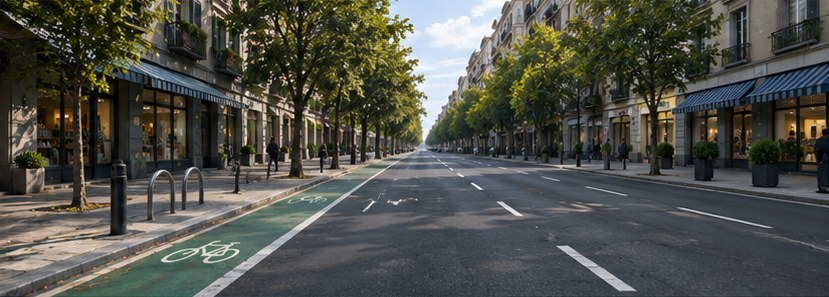
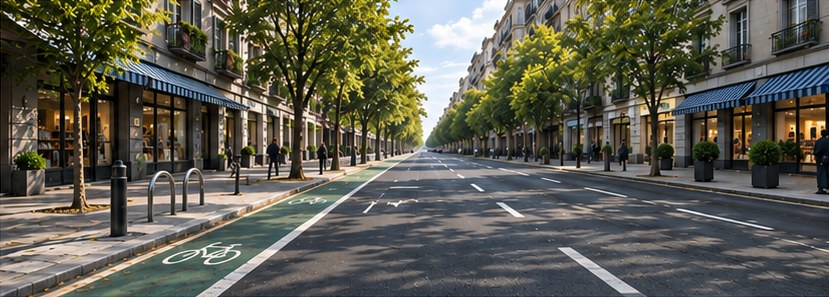
Mark 2: new camera images — approaching cyclist for the Nav blind-spot alert, the rest for the camera grid
Claude-Session: https://claude.ai/code/session_01P73dnHvCVQTA44iCgN1u2F

diff --git a/nio/mark2/prototype.html b/nio/mark2/prototype.html
@@ -4,10 +4,10 @@
 <link rel="preconnect" href="https://fonts.googleapis.com"><link rel="preconnect" href="https://fonts.gstatic.com" crossorigin>
 <link href="https://fonts.googleapis.com/css2?family=Red+Hat+Display:wght@400;500;700&family=Red+Hat+Text:wght@400;500;600;700&display=swap" rel="stylesheet">
 <link href="https://fonts.googleapis.com/css2?family=Material+Symbols+Rounded:opsz,wght,FILL,GRAD@20..48,300..500,0..1,0&display=block" rel="stylesheet">
-<link rel="stylesheet" href="hifi.css?v=140">
-<link rel="stylesheet" href="hifi-dark.css?v=140"><script src="i18n.js?v=140"></script>
+<link rel="stylesheet" href="hifi.css?v=141">
+<link rel="stylesheet" href="hifi-dark.css?v=141"><script src="i18n.js?v=141"></script>
 <script type="importmap">{"imports":{"three":"./vendor/three/build/three.module.min.js","three/addons/":"./vendor/three/addons/"}}</script>
-<link rel="modulepreload" href="vendor/three/build/three.module.min.js"><link rel="modulepreload" href="et9-3d.js?v=140"><link rel="modulepreload" href="vendor/three/addons/loaders/GLTFLoader.js">
+<link rel="modulepreload" href="vendor/three/build/three.module.min.js"><link rel="modulepreload" href="et9-3d.js?v=141"><link rel="modulepreload" href="vendor/three/addons/loaders/GLTFLoader.js">
 <link rel="preload" href="model/et9.glb" as="fetch" crossorigin="anonymous"><link rel="preload" href="model/paint.bin" as="fetch" crossorigin="anonymous">
 <script>(function(){var d=document.documentElement,q=new URLSearchParams(location.search),t='auto';try{t=localStorage.getItem('nio-theme')||'auto'}catch(e){}t=q.get('theme')||t;
 var dk=t==='dark'||(t==='auto'&&window.matchMedia&&matchMedia('(prefers-color-scheme: dark)').matches);d.dataset.pref=t;d.dataset.theme=dk?'dark':'light';d.dataset.night=q.get('night')||'plum';})();</script>
@@ -455,7 +455,7 @@ var dk=t==='dark'||(t==='auto'&&window.matchMedia&&matchMedia('(prefers-color-sc
 </div></section></div>
     <div class="ctx"><div class="card bscam" style="display:flex;flex-direction:column;gap:14px;border-style:solid;border-color:#d94a4a">
         <div class="row" style="justify-content:space-between"><div class="row" style="gap:10px"><span class="ms f" style="color:var(--t1);font-size:24px">videocam</span><span class="lbl" style="color:var(--t1)">Right blind spot</span></div><span class="row" style="gap:6px;font:500 13px 'Red Hat Text';color:#d94a4a"><i style="width:8px;height:8px;border-radius:50%;background:#d94a4a;display:block"></i>LIVE</span></div>
-        <div class="camv" style="flex:1;position:relative;overflow:hidden;background-image:url(img/camera/blindspot-right.jpg?v=140)">
+        <div class="camv" style="flex:1;position:relative;overflow:hidden;background-image:url(img/camera/blindspot-right.jpg?v=141)">
           <div class="warnbar" style="position:absolute;left:14px;right:14px;bottom:14px"><span class="ms f" style="">pedal_bike</span>Cyclist approaching · wait</div></div>
       </div><div class="card player playing grow">
       <div class="p-full">
@@ -519,7 +519,7 @@ var dk=t==='dark'||(t==='auto'&&window.matchMedia&&matchMedia('(prefers-color-sc
     <span class="ms wc-i" style="font-size:48px;color:var(--t1)">cloud</span><div class="col" style="gap:0;flex:1"><span class="b2" style="color:var(--t1)">Paris</span><span class="bs wc-t">loading…</span></div>
     <div class="col" style="gap:0;align-items:flex-end"><span class="num wc-c" style="font:400 36px/1 Red Hat Display">–</span><span class="bs num wc-h">H – · L –</span></div></div><div class="card scard wcity" data-lat="28.6139" data-lon="77.209" data-tz="Asia/Kolkata" style="flex:1;flex-direction:row;align-items:center;gap:16px;padding:20px 22px">
     <span class="ms wc-i" style="font-size:48px;color:var(--t1)">cloud</span><div class="col" style="gap:0;flex:1"><span class="b2" style="color:var(--t1)">New Delhi</span><span class="bs wc-t">loading…</span></div>
-    <div class="col" style="gap:0;align-items:flex-end"><span class="num wc-c" style="font:400 36px/1 Red Hat Display">–</span><span class="bs num wc-h">H – · L –</span></div></div></div><span class="bs">Live from Open-Meteo · local time shown for each city</span></div></template><template data-appc="Charging map"><div class="card scard"><span class="lbl">Chargers near you</span><div class="lrow" data-tap><span class="ms " style="font-size:24px;color:var(--t2)">ev_station</span><div class="col" style="gap:0;flex:1"><span class="b2" style="color:var(--t1)">SuperChargy Kirchberg</span><span class="bs">Fast charging</span></div><span class="bs num">2.1 km</span></div><div class="lrow" data-tap><span class="ms " style="font-size:24px;color:var(--t2)">ev_station</span><div class="col" style="gap:0;flex:1"><span class="b2" style="color:var(--t1)">SuperChargy Gare</span><span class="bs">Fast charging</span></div><span class="bs num">3.4 km</span></div><div class="lrow" data-tap><span class="ms " style="font-size:24px;color:var(--t2)">ev_station</span><div class="col" style="gap:0;flex:1"><span class="b2" style="color:var(--t1)">Chargy · Place de l’Europe</span><span class="bs">AC 22 kW</span></div><span class="bs num">2.6 km</span></div><div class="lrow" data-tap><span class="ms " style="font-size:24px;color:var(--t2)">battery_change</span><div class="col" style="gap:0;flex:1"><span class="b2" style="color:var(--t1)">Power Swap</span><span class="bs">On your saved route to Germany</span></div><span class="bs num">route</span></div></div></template><template data-appc="Camera"><div class="camgrid"><div class="camv" style="background-image:url(img/camera/front.jpg?v=140)"><span class="camtag">Front</span><span class="camlive">LIVE</span></div><div class="camv" style="background-image:url(img/camera/rear.jpg?v=140)"><span class="camtag">Rear</span><span class="camlive">LIVE</span></div><div class="camv" style="background-image:url(img/camera/left.jpg?v=140)"><span class="camtag">Left</span><span class="camlive">LIVE</span></div><div class="camv" style="background-image:url(img/camera/right.jpg?v=140)"><span class="camtag">Right</span><span class="camlive">LIVE</span></div></div></template><template data-appc="Pet Mode"><div class="petw"><div class="card scard pet-off" style="align-items:center;gap:12px;padding:32px;text-align:center"><span class="pet-ic"><span class="ms f" style="font-size:52px;color:var(--route)">pets</span></span><span class="h3">Pet Mode</span><span class="bs" style="max-width:420px">Keeps the cabin at 21 °C while you’re away. Doors, windows and sunshades close, the car locks, and the screen tells passers-by your pet is fine.</span><div class="btn pri" data-pet="on" data-tap><span class="ms " style="font-size:22px">pets</span><span>Turn on Pet Mode</span></div></div>
+    <div class="col" style="gap:0;align-items:flex-end"><span class="num wc-c" style="font:400 36px/1 Red Hat Display">–</span><span class="bs num wc-h">H – · L –</span></div></div></div><span class="bs">Live from Open-Meteo · local time shown for each city</span></div></template><template data-appc="Charging map"><div class="card scard"><span class="lbl">Chargers near you</span><div class="lrow" data-tap><span class="ms " style="font-size:24px;color:var(--t2)">ev_station</span><div class="col" style="gap:0;flex:1"><span class="b2" style="color:var(--t1)">SuperChargy Kirchberg</span><span class="bs">Fast charging</span></div><span class="bs num">2.1 km</span></div><div class="lrow" data-tap><span class="ms " style="font-size:24px;color:var(--t2)">ev_station</span><div class="col" style="gap:0;flex:1"><span class="b2" style="color:var(--t1)">SuperChargy Gare</span><span class="bs">Fast charging</span></div><span class="bs num">3.4 km</span></div><div class="lrow" data-tap><span class="ms " style="font-size:24px;color:var(--t2)">ev_station</span><div class="col" style="gap:0;flex:1"><span class="b2" style="color:var(--t1)">Chargy · Place de l’Europe</span><span class="bs">AC 22 kW</span></div><span class="bs num">2.6 km</span></div><div class="lrow" data-tap><span class="ms " style="font-size:24px;color:var(--t2)">battery_change</span><div class="col" style="gap:0;flex:1"><span class="b2" style="color:var(--t1)">Power Swap</span><span class="bs">On your saved route to Germany</span></div><span class="bs num">route</span></div></div></template><template data-appc="Camera"><div class="camgrid"><div class="camv" style="background-image:url(img/camera/front.jpg?v=141)"><span class="camtag">Front</span><span class="camlive">LIVE</span></div><div class="camv" style="background-image:url(img/camera/rear.jpg?v=141)"><span class="camtag">Rear</span><span class="camlive">LIVE</span></div><div class="camv" style="background-image:url(img/camera/left.jpg?v=141)"><span class="camtag">Left</span><span class="camlive">LIVE</span></div><div class="camv" style="background-image:url(img/camera/right.jpg?v=141)"><span class="camtag">Right</span><span class="camlive">LIVE</span></div></div></template><template data-appc="Pet Mode"><div class="petw"><div class="card scard pet-off" style="align-items:center;gap:12px;padding:32px;text-align:center"><span class="pet-ic"><span class="ms f" style="font-size:52px;color:var(--route)">pets</span></span><span class="h3">Pet Mode</span><span class="bs" style="max-width:420px">Keeps the cabin at 21 °C while you’re away. Doors, windows and sunshades close, the car locks, and the screen tells passers-by your pet is fine.</span><div class="btn pri" data-pet="on" data-tap><span class="ms " style="font-size:22px">pets</span><span>Turn on Pet Mode</span></div></div>
   <div class="pet-on"><span class="pet-ic big"><span class="ms f" style="font-size:72px;color:var(--route)">pets</span></span><span class="pet-msg">My owner will be back soon.<br>Don’t worry, I’m comfortable.</span><span class="pet-t num">21 °C</span><span class="bs pet-s">Cabin held at 21 °C · battery 78 % · doors locked</span><div class="btn sec" data-pet="off" data-tap><span class="ms " style="font-size:22px">power_settings_new</span><span>Turn off Pet Mode</span></div></div></div></template><template data-appc="Guard Mode"><div class="col" style="gap:14px"><div class="card scard gm-card on" style="flex-direction:row;align-items:center;gap:18px;padding:20px 24px">
   <span class="gm-orb"><span class="ms f" style="font-size:34px;color:#fff">shield</span></span><div class="col" style="gap:0;flex:1"><span class="h3 gm-st">Guard Mode is on</span><span class="bs gm-sub">Watching with 4 cameras while the ET9 is parked and locked</span></div>
   <div class="btn sec sm" data-app="Camera"><span class="ms " style="font-size:20px">videocam</span><span>Live view</span></div></div>
@@ -552,10 +552,10 @@ var dk=t==='dark'||(t==='auto'&&window.matchMedia&&matchMedia('(prefers-color-sc
 </div></div>
 <p class="disc">Map data © OpenStreetMap contributors. Vehicle figures follow published NIO ET9 specifications where available; some values are adjusted for the design study.</p>
 </div>
-<script src="hifi.js?v=140"></script>
+<script src="hifi.js?v=141"></script>
 <script src="https://cdnjs.cloudflare.com/ajax/libs/chess.js/0.10.3/chess.min.js"></script>
-<script src="hmi.js?v=140"></script>
+<script src="hmi.js?v=141"></script>
 <script src="../map/lux-map.js?v=2"></script>
-<script src="../design/nav-map.js?v=140"></script>
-<script type="module" src="et9-3d.js?v=140"></script>
+<script src="../design/nav-map.js?v=141"></script>
+<script type="module" src="et9-3d.js?v=141"></script>
 </body></html>

diff --git a/nio/mark2/batch-1.html b/nio/mark2/batch-1.html
@@ -4,7 +4,7 @@
 <link rel="preconnect" href="https://fonts.googleapis.com"><link rel="preconnect" href="https://fonts.gstatic.com" crossorigin>
 <link href="https://fonts.googleapis.com/css2?family=Red+Hat+Display:wght@400;500;700&family=Red+Hat+Text:wght@400;500;600;700&display=swap" rel="stylesheet">
 <link href="https://fonts.googleapis.com/css2?family=Material+Symbols+Rounded:opsz,wght,FILL,GRAD@20..48,300..500,0..1,0&display=block" rel="stylesheet">
-<link rel="stylesheet" href="hifi.css?v=140">
+<link rel="stylesheet" href="hifi.css?v=141">
 </head><body><div class="wrap">
 <div class="sitebar"><p class="cap">NIO ET9 CENTRE SCREEN · BATCH 1 · HIGH FIDELITY · LAVENDER LIGHT · 1440 × 900 (2880 × 1800 @2×) · built from nio/style-guide.md</p><button class="sound" type="button"></button></div>
 <nav class="toc"><a href="#drive-navigation">1 · Drive: Navigation</a><a href="#blind-spot">2 · Drive: Blind spot view</a><a href="#home">3 · Home</a><a href="#car">4 · Car</a><a href="#car-driving">5 · Car: Driving modes</a><a href="#pet-mode">6 · Pet Mode</a><a href="#parking-suggest">7 · Reserve parking, step 1: Suggest</a><a href="#edit-layout">8 · Edit layout</a><a href="#settings-display">9 · Settings › Display</a></nav>
@@ -59,7 +59,7 @@
       <!-- CONTEXT PANE -->
       <div class="ctx"><div class="card bscam" style="display:flex;flex-direction:column;gap:14px;border-style:solid;border-color:#d94a4a">
         <div class="row" style="justify-content:space-between"><div class="row" style="gap:10px"><span class="ms f" style="color:var(--t1);font-size:24px">videocam</span><span class="lbl" style="color:var(--t1)">Right blind spot</span></div><span class="row" style="gap:6px;font:500 13px 'Red Hat Text';color:#d94a4a"><i style="width:8px;height:8px;border-radius:50%;background:#d94a4a;display:block"></i>LIVE</span></div>
-        <div class="camv" style="flex:1;position:relative;overflow:hidden;background-image:url(img/camera/blindspot-right.jpg?v=140)">
+        <div class="camv" style="flex:1;position:relative;overflow:hidden;background-image:url(img/camera/blindspot-right.jpg?v=141)">
           <div class="warnbar" style="position:absolute;left:14px;right:14px;bottom:14px"><span class="ms f" style="">pedal_bike</span>Cyclist approaching · wait</div></div>
       </div>
         <div class="card player playing grow">
@@ -121,7 +121,7 @@
     <div class="ctx">
       <div class="card bscam" style="display:flex;flex-direction:column;gap:14px;border-style:solid;border-color:#d94a4a">
         <div class="row" style="justify-content:space-between"><div class="row" style="gap:10px"><span class="ms f" style="color:var(--t1);font-size:24px">videocam</span><span class="lbl" style="color:var(--t1)">Right blind spot</span></div><span class="row" style="gap:6px;font:500 13px 'Red Hat Text';color:#d94a4a"><i style="width:8px;height:8px;border-radius:50%;background:#d94a4a;display:block"></i>LIVE</span></div>
-        <div class="camv" style="flex:1;position:relative;overflow:hidden;background-image:url(img/camera/blindspot-right.jpg?v=140)">
+        <div class="camv" style="flex:1;position:relative;overflow:hidden;background-image:url(img/camera/blindspot-right.jpg?v=141)">
           <div class="warnbar" style="position:absolute;left:14px;right:14px;bottom:14px"><span class="ms f" style="">pedal_bike</span>Cyclist approaching · wait</div></div>
       </div>
       <div class="card player playing grow">
@@ -465,8 +465,8 @@
 </div></div></section>
 <p class="disc">Vehicle figures follow published NIO ET9 specifications where available; some values are adjusted for the design study. Map data © OpenStreetMap contributors. Weather, air quality and sunset: Open-Meteo, live for Luxembourg.</p>
 </div>
-<script src="hifi.js?v=140"></script>
-<script src="hmi.js?v=140"></script>
+<script src="hifi.js?v=141"></script>
+<script src="hmi.js?v=141"></script>
 <script src="../map/lux-map.js?v=2"></script>
-<script src="../design/nav-map.js?v=140"></script>
+<script src="../design/nav-map.js?v=141"></script>
 </body></html>
